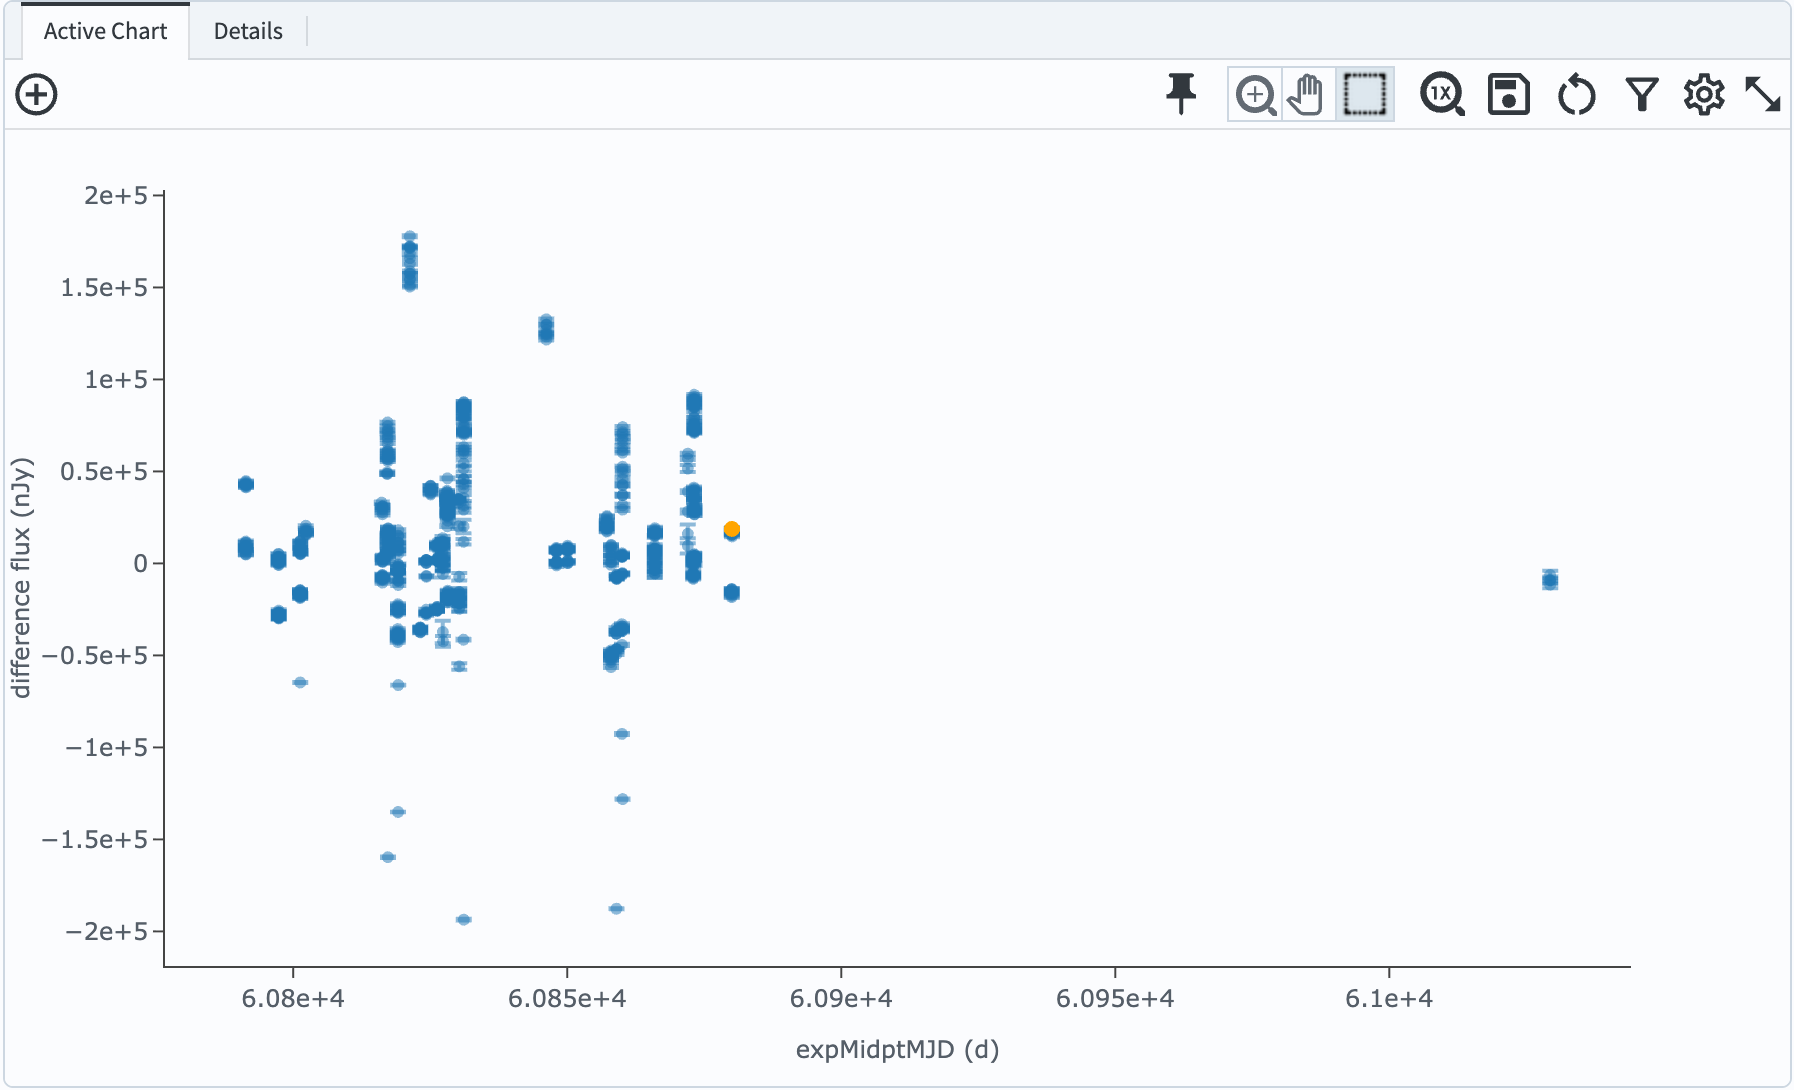
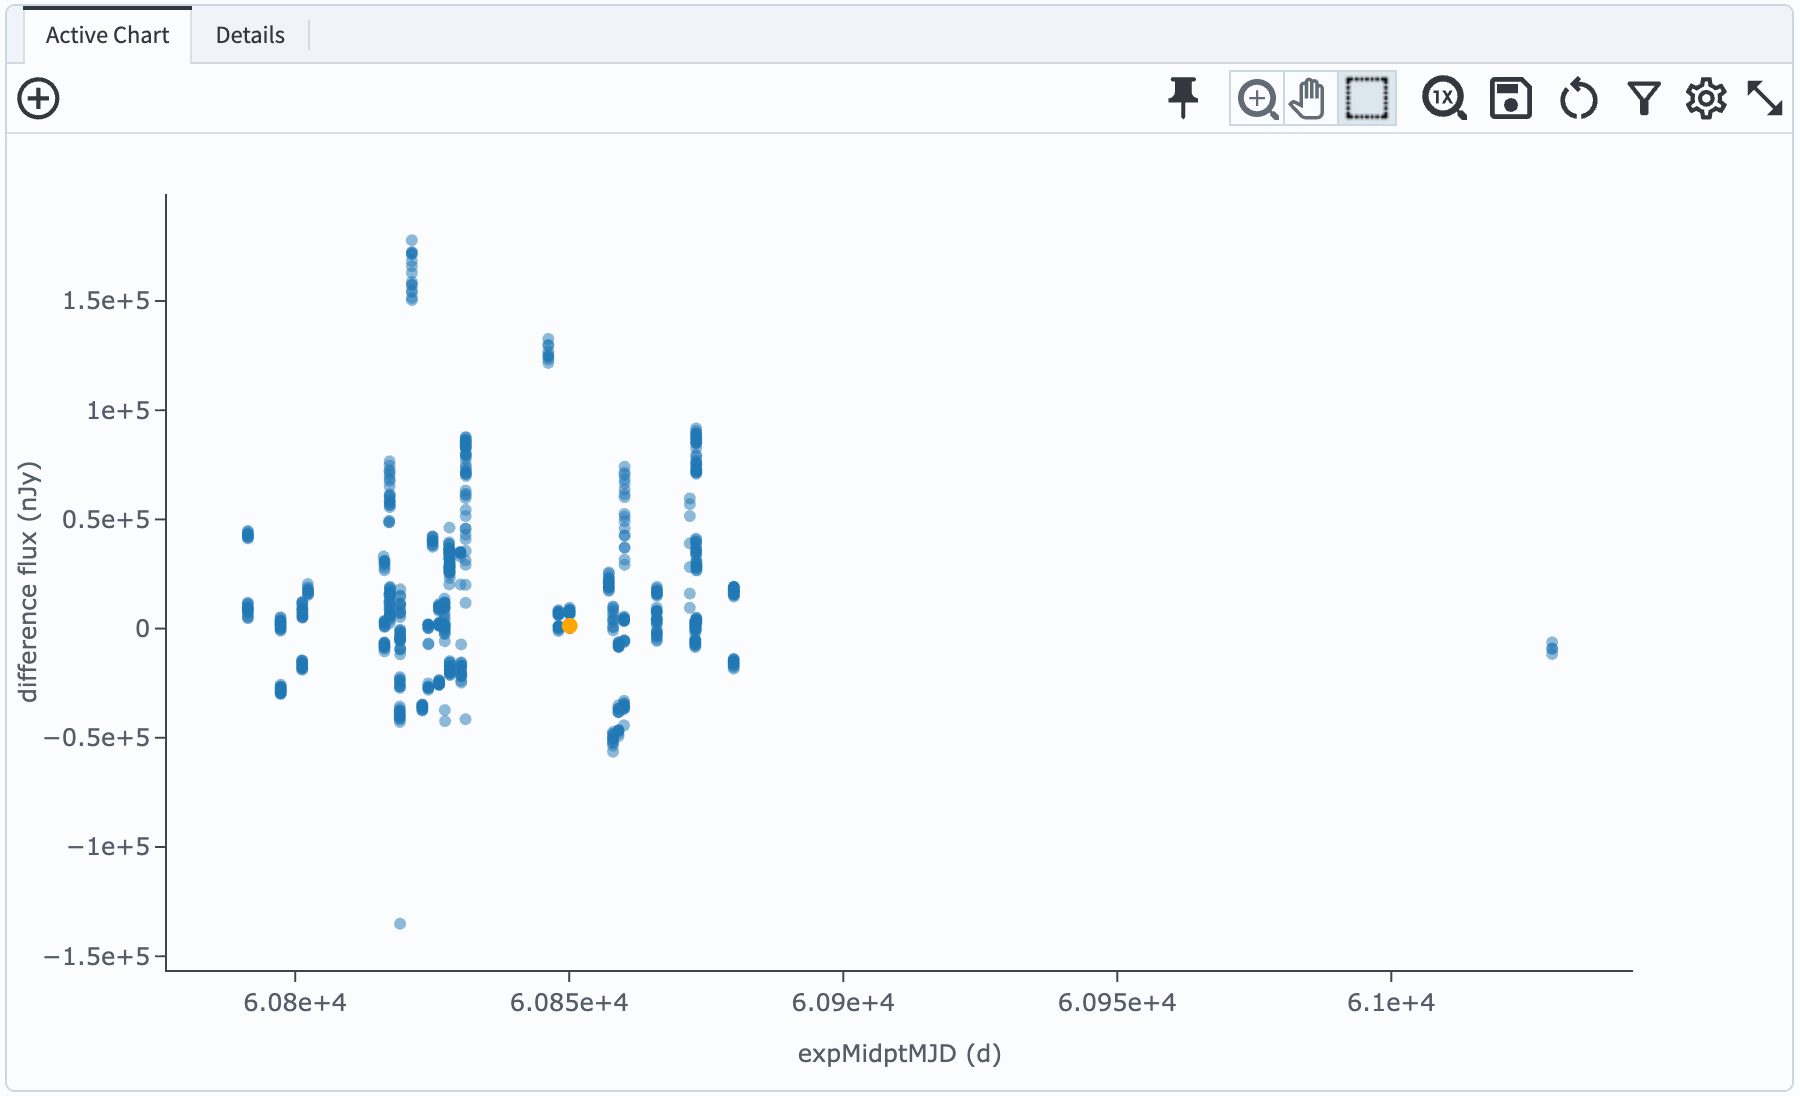
Updates after review

diff --git a/docs/tutorials/portal/305/portal-305-1.rst b/docs/tutorials/portal/305/portal-305-1.rst
@@ -8,7 +8,7 @@ For the Portal Aspect of the Rubin Science Platform at data.lsst.cloud.
 
 **Data Release:** DP2
 
-**Last verified to run:** 2026-10-20
+**Last verified to run:** 2026-10-23
 
 **Learning objective:** Extract and plot a light curve of a known variable star.
 
@@ -26,25 +26,29 @@ Rubin staff will respond to all questions posted there.
 **1. Execute an ADQL query for a light curve.**
 Log in to the Portal Aspect, select the "DP1 & DP2 Catalogs" tab and click on "Edit ADQL" at upper right.
 Enter the following ADQL statement and click "Search" at lower left.
-This query will return all forced photometry measurements for a known variable star from Gaia, at coordinates (RA, Dec) = (226.7244283498404, -40.30405425755786) degrees.
+This query will return all forced photometry measurements for a known variable star from Gaia, at coordinates (RA, Dec) = (226.7244283498404, -40.30405425755786) degrees, within a 0.5-arcsecond matching radius.
 
 .. code-block:: SQL
-
   SELECT diaobj.ra, diaobj.dec, diaobj.diaObjectId, fsodo.visit, fsodo.band,
          fsodo.psfDiffFlux, fsodo.psfDiffFluxErr,
          fsodo.psfFlux as psfFlux, fsodo.psfFluxErr,
-         fsodo.psfDiffFlux_flag, fsodo.diff_PixelFlags_nodataCenter,
+         scisql_nanojanskyToAbMag(fsodo.psfFLux) as mag,
          fsodo.pixelFlags_saturatedCenter, fsodo.invalidPsfFlag,
-         fsodo.pixelFlags_bad, fsodo.psfFlux_flag,
+         fsodo.psfFlux_flag,
          vis.expMidptMJD
   FROM dp2.DiaObject as diaobj
   JOIN dp2.ForcedSourceOnDiaObject as fsodo ON fsodo.diaObjectId = diaobj.diaObjectId
   JOIN dp2.Visit as vis ON vis.visit = fsodo.visit
   WHERE CONTAINS(POINT('ICRS', diaobj.ra, diaobj.dec),
                  CIRCLE('ICRS', 226.7244283498404, -40.30405425755786, 0.5/3600)) = 1
+  AND fsodo.psfFlux_flag = 0
+  AND fsodo.invalidPsfFlag = 0
+  AND fsodo.pixelFlags_saturatedCenter = 0
+
 
 The above query locates the star of interest in the ``DiaObject`` table, matches based on ``diaObjectId`` to the ``ForcedSourceOnDiaObject`` table to get the forced photometry measurements, then matches based on ``visit`` to the ``Visit`` table to get the observation times, ``expMidptMJD``.
-The query should return 887 results.
+It also calculates magnitudes from the forced PSF fluxes, and applies the recommended flags for science-image fluxes from `the documentation <https://dp2.lsst.io/products/flags/flag_usage.html#forcedsourceondiaobject-table>`_.
+The query should return 878 results.
 
 **2. Plot a light curve (flux vs. time).**
 In the "Active Chart" panel, click the "+" to add a chart.
@@ -80,19 +84,7 @@ The selected star was identified as an RR Lyrae variable via its light curve fro
 Its ID is `6005347144427786624 <https://gaia.aip.de/serve/references/source_id/6005347144427786624?job_id=9a24e576-30d9-4d93-9c52-7dd39ba85f86>`_ in Gaia.
 This star is classified in Gaia DR3's vari_rrlyrae table as an RRab-type variable with a period of 0.5180638410804721 days.
 
-Calculate magnitudes for the science image forced measurements in the table.
-To do so, click the "Add a column" icon at the top of the results table, then enter the parameters shown in Figure 3.
-The formula -2.5*log10(psfFlux) + 31.4 converts from flux in nJy to AB magnitudes.
-Note that this will often not work for difference fluxes, as they can be negative and will cause the logarithm to fail.
-
-.. figure:: images/portal-305-1-3.png
-    :width: 400
-    :name: portal-305-1-3
-    :alt: The interface to calculate a new column value derived from existing columns.
-
-    Figure 3: The interface to calculate a new column value derived from existing columns. The formula -2.5*log10(psfFlux) + 31.4 converts from flux in nJy to AB magnitudes.
-
-Select *g*-band measurements, then change the plot to display ``psfmag`` vs. ``expMidptMJD``.
+Select *g*-band measurements, then change the plot to display ``mag`` vs. ``expMidptMJD``.
 Reverse the y-axis so brighter magnitudes are toward the top of the plot.
 
 To place each measurement into the RR Lyrae star's phase, one must choose a reference measurement to use as the initial time.
@@ -103,12 +95,12 @@ Create a new table column "tdiff" that calculates the difference between each me
 To calculate phase, calculate the number of periods that have passed since t0 as tdiff/period.
 Then subtract off the number of full periods that passed from that number using the ``floor`` function, such that ``phase = (tdiff/period)-floor(tdiff/period)``, where ``period=0.5180638410804721`` is the known period.
 
-Change the existing plot to show *g* magnitude vs. ``phase``. This phased light curve should look like Figure 4.
+Change the existing plot to show *g* magnitude vs. ``phase``. This phased light curve should look like Figure 3.
 
-.. figure:: images/portal-305-1-4.png
+.. figure:: images/portal-305-1-3.png
     :width: 700
-    :name: portal-305-1-4
+    :name: portal-305-1-3
     :alt: The phased light curve, showing brightness in g magnitude vs. phase.
 
-    Figure 4: The light curve of the selected star with measurements placed into their correct phase within the star's variability period. Brightnesses are plotted as magnitudes, showing a variability amplitude of +/-0.6 magnitudes.
+    Figure 3: The light curve of the selected star with measurements placed into their correct phase within the star's variability period. Brightnesses are plotted as magnitudes, showing a variability amplitude of +/-0.6 magnitudes.
 
